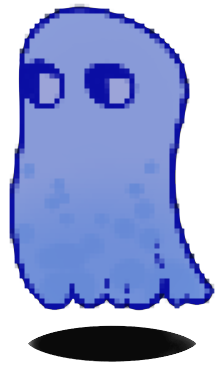
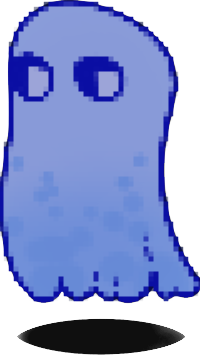
render_room

Changed region(s): [[0.0, 0.0, 1.0, 1.0], [0.36, 0.1545, 0.63, 0.309], [0.12, 0.4326, 0.15, 0.4635]]

diff --git a/src/main.c b/src/main.c
@@ -5,7 +5,7 @@ int WinMain(int argc, char *argv[]) {
     sdl_init();
     SDL_Window* window = sdl_window();
     SDL_Renderer* renderer = sdl_render(window);
-    SDL_Rect hero = { SCREEN_WIDTH / 2, SCREEN_HEIGHT / 2, 160, 275};
+    SDL_Rect hero = { SCREEN_WIDTH / 2, SCREEN_HEIGHT / 2, 100, 200};
 
     SDL_Texture* bgTexture = load_texture("../resource/static/room-floor/first-room-floor.PNG", renderer);
 
@@ -17,8 +17,50 @@ int WinMain(int argc, char *argv[]) {
     int speed = 1;
 
     //first room
-    Board room = board_build(1480, 600, bgTexture); // Создание комнаты
-    Object* first_rom_obj = init_first_room(renderer);
+    char* filenames1[] = {
+            "../resource/static/non_active/clock.PNG",
+            "../resource/static/non_active/cupboard.PNG",
+            "../resource/static/non_active/cupboard_books.PNG",
+            "../resource/static/non_active/fireplace.PNG",
+            "../resource/static/non_active/greenandblue_mushroom.PNG",
+            "../resource/static/non_active/picture.PNG",
+            "../resource/static/non_active/pudge.PNG",
+            "../resource/static/non_active/red_mushroom.PNG",
+            "../resource/static/non_active/tumbler.PNG",
+            "../resource/static/non_active/win.PNG",
+            "../resource/static/non_active/yellow_mushroom.PNG"
+    };
+
+    SDL_Rect positions1[] = {
+            { 270, 110, 140, 140},
+            { 230, 550, 240, 360},
+            { 450, 140, 300, 400},
+            { 1210, 260, 500, 250 },
+            { 270, 260, 105, 305 },
+            { 1290, 55, 360, 200 },
+            { 720, 350, 140, 140},
+            { 1280, 600, 400, 400 },
+            { 550, 840, 170, 170 },
+            { 800, 60, 421, 300},
+            { 270, 840, 170, 170 },
+    };
+
+    bool dummies1[] = {
+            true,
+            false,
+            true,
+            true,
+            true,
+            false,
+            true,
+            true,
+            false,
+            true,
+            true
+    };
+
+    Board room = room_build(1480, 600, bgTexture); // Создание комнаты
+    Object* first_rom_obj = init_room(renderer, filenames1, positions1, dummies1);
 
     int len1 = 11;
 //    while (first_rom_obj[len1].bg != NULL) {
@@ -29,7 +71,7 @@ int WinMain(int argc, char *argv[]) {
 
     bool running = true;
     while (running) {
-        update_hero(&hero, speed, &room, &running); // Обновление позиции героя
+        update_hero(&hero, speed, &room, &running, first_rom_obj, len1);// Обновление позиции героя
 
         render_main(renderer, &hero, &room, first_rom_obj, len1); // Отрисовка кадра
 

diff --git a/src/entities/board_build.c b/src/entities/board_build.c
@@ -1,20 +1,21 @@
 #include "../../resource/header.h"
 
-Board board_build(int roomWidth, int roomHeight, SDL_Texture* bgPath) {
-    int roomX = (SCREEN_WIDTH - roomWidth) / 2;
-    int roomY = (int)((SCREEN_HEIGHT - roomHeight) / 1.17);
+Board board_build(Object obj) {
+    Board border;
 
-    Board room;
-    room.topWall = (SDL_Rect){roomX, roomY - 140, roomWidth, 10};
-    room.bottomWall = (SDL_Rect){roomX, roomY + roomHeight, roomWidth, 10};
-    room.leftWall = (SDL_Rect){roomX, roomY - 140, 10, roomHeight + 140};
-    room.rightWall = (SDL_Rect){roomX + roomWidth, roomY -140 , 10, roomHeight + 140};
-    room.bg = bgPath;
+    // Вычисляем уменьшение размеров на 20%
+    int shrinkWidth = obj.position.w;
+    int shrinkHeight = obj.position.h;
 
-    printf("Top Wall: %d %d %d %d\n", room.topWall.x, room.topWall.y, room.topWall.w, room.topWall.h);
-    printf("Bottom Wall: %d %d %d %d\n", room.bottomWall.x, room.bottomWall.y, room.bottomWall.w, room.bottomWall.h);
-    printf("Left Wall: %d %d %d %d\n", room.leftWall.x, room.leftWall.y, room.leftWall.w, room.leftWall.h);
-    printf("Right Wall: %d %d %d %d\n", room.rightWall.x, room.rightWall.y, room.rightWall.w, room.rightWall.h);
+    // Вычисляем смещение для центрирования уменьшенных границ
+    int offsetX = shrinkWidth / 2;
+    int offsetY = shrinkHeight / 2;
 
-    return room;
+    // Создаем границы с учетом уменьшения и смещения
+    border.topWall = (SDL_Rect){obj.position.x + offsetX, obj.position.y + offsetY, obj.position.w - shrinkWidth, 1};
+    border.bottomWall = (SDL_Rect){obj.position.x + offsetX, obj.position.y + offsetY + obj.position.h - shrinkHeight, obj.position.w - shrinkWidth, 1};
+    border.leftWall = (SDL_Rect){obj.position.x + offsetX, obj.position.y + offsetY, 1, obj.position.h - shrinkHeight};
+    border.rightWall = (SDL_Rect){obj.position.x + offsetX + obj.position.w - shrinkWidth, obj.position.y + offsetY, 1, obj.position.h - shrinkHeight};
+
+    return border;
 }

diff --git a/src/mechanics/update_hero.c b/src/mechanics/update_hero.c
@@ -1,6 +1,6 @@
 #include "../../resource/header.h"
 
-void update_hero(SDL_Rect* hero, int speed, Board* room, bool* running) {
+void update_hero(SDL_Rect* hero, int speed, Board* room, bool* running, Object* objects, int len_objs) {
     SDL_Event event;
     while (SDL_PollEvent(&event)) {
         if (event.type == SDL_QUIT) {
@@ -26,12 +26,28 @@ void update_hero(SDL_Rect* hero, int speed, Board* room, bool* running) {
 
     SDL_Rect newHeroRect = {newX, newY, hero->w, hero->h};
 
-    // Проверка столкновений с каждой стеной
+    // Проверка столкновений с стенами комнаты
     if (!check_collision(&newHeroRect, &room->topWall) &&
         !check_collision(&newHeroRect, &room->bottomWall) &&
         !check_collision(&newHeroRect, &room->leftWall) &&
         !check_collision(&newHeroRect, &room->rightWall)) {
-        hero->x = newX;
-        hero->y = newY;
+        // Проверка столкновений с объектами
+        bool collisionWithObjects = false;
+        for (int i = 0; i < len_objs; i++) {
+            if (check_collision(&newHeroRect, &objects[i].position)) {
+                if(objects[i].dummy) {
+                    collisionWithObjects = false;
+                    continue;
+                }
+                collisionWithObjects = true;
+                break;
+            }
+        }
+
+        // Обновление положения героя, если не было столкновений
+        if (!collisionWithObjects) {
+            hero->x = newX;
+            hero->y = newY;
+        }
     }
 }

diff --git a/resource/header.h b/resource/header.h
@@ -26,6 +26,9 @@ typedef struct board {
 typedef struct object {
     SDL_Texture* bg;
     SDL_Rect position;
+    int height; // высота фото
+    int width;  // ширина фото
+    bool dummy;
 } Object;
 
 //errs
@@ -34,13 +37,14 @@ SDL_Window* sdl_window();
 SDL_Renderer* sdl_render(SDL_Window* window);
 
 //entities
-Board board_build(int roomWidth, int roomHeight, SDL_Texture* bgPath);
-Object* init_first_room(SDL_Renderer* renderer);
+Board room_build(int roomWidth, int roomHeight, SDL_Texture* bgPath);
+Board board_build(Object obj);
+Object* init_room(SDL_Renderer* renderer, char** filenames, SDL_Rect* positions, bool** dummies);
 void render_all_room(SDL_Renderer* renderer, const Board* room, Object* objects, int len_objs);
 void render_obj(SDL_Renderer* renderer, Object obj);
 
 //mechanics
-void update_hero(SDL_Rect* hero, int speed, Board* board, bool* running);
+void update_hero(SDL_Rect* hero, int speed, Board* room, bool* running, Object* objects, int len_objs);
 bool check_collision(const SDL_Rect* a, const SDL_Rect* b);
 
 //render

diff --git a/src/entities/room_build.c b/src/entities/room_build.c
@@ -1,0 +1,20 @@
+#include "../../resource/header.h"
+
+Board room_build(int roomWidth, int roomHeight, SDL_Texture* bgPath) {
+    int roomX = (SCREEN_WIDTH - roomWidth) / 2;
+    int roomY = (int)((SCREEN_HEIGHT - roomHeight) / 1.17);
+
+    Board room;
+    room.topWall = (SDL_Rect){roomX, roomY - 100, roomWidth, 10};
+    room.bottomWall = (SDL_Rect){roomX, roomY + roomHeight, roomWidth, 10};
+    room.leftWall = (SDL_Rect){roomX, roomY - 140, 10, roomHeight + 140};
+    room.rightWall = (SDL_Rect){roomX + roomWidth, roomY -140 , 10, roomHeight + 140};
+    room.bg = bgPath;
+
+    printf("Top Wall: %d %d %d %d\n", room.topWall.x, room.topWall.y, room.topWall.w, room.topWall.h);
+    printf("Bottom Wall: %d %d %d %d\n", room.bottomWall.x, room.bottomWall.y, room.bottomWall.w, room.bottomWall.h);
+    printf("Left Wall: %d %d %d %d\n", room.leftWall.x, room.leftWall.y, room.leftWall.w, room.leftWall.h);
+    printf("Right Wall: %d %d %d %d\n", room.rightWall.x, room.rightWall.y, room.rightWall.w, room.rightWall.h);
+
+    return room;
+}

diff --git a/src/entities/init_room.c b/src/entities/init_room.c
@@ -1,0 +1,27 @@
+#include "../../resource/header.h"
+
+
+Object* init_room(SDL_Renderer* renderer, char** filenames, SDL_Rect* positions, bool** dummies) {
+
+    Object* objects = malloc(sizeof(Object) * 11);
+
+    for (int i = 0; i < 11; i++) {
+        objects[i].bg = malloc(strlen(filenames[i]) + 1);
+        objects[i].bg = load_texture(filenames[i], renderer);
+        objects[i].position = positions[i];
+        int width, height;
+        if (SDL_QueryTexture(objects[i].bg, NULL, NULL, &width, &height) != 0) {
+            SDL_Log("err h w texture %s", SDL_GetError());
+        }
+        objects[i].height = height;
+        objects[i].width = width;
+        objects[i].dummy = dummies[i];
+        if (objects[i].dummy) {
+            objects[i].height = 0;
+            objects[i].width = 0;
+        }
+        printf("w: %d, h: %d\n", width, height);
+    }
+
+    return objects;
+}

diff --git a/src/render/render_hero.c b/src/render/render_hero.c
@@ -1,15 +1,10 @@
 #include "../../resource/header.h"
 
 void render_hero(SDL_Renderer* renderer, SDL_Rect* hero, SDL_Texture* heroTexture) {
-
     if (!heroTexture) {
         printf("Ошибка загрузки текстуры героя: %s\n", SDL_GetError());
         return;
     }
-
-    // Отрисовка героя
     SDL_RenderCopy(renderer, heroTexture, NULL, hero);
-
-    // Отображение отрисованного кадра
     SDL_RenderPresent(renderer);
 }

diff --git a/src/mechanics/check_collision.c b/src/mechanics/check_collision.c
@@ -1,7 +1,6 @@
 #include "../../resource/header.h"
 
-bool check_collision(const SDL_Rect* a, const SDL_Rect* b) {
-    // Проверка пересечения двух прямоугольников
+bool check_collision(const SDL_Rect* a, const SDL_Rect* b) { // Проверка на столкновение не трогать ключевая функция!
     return (a->x < b->x + b->w) &&
            (a->x + a->w > b->x) &&
            (a->y < b->y + b->h) &&

diff --git a/src/render/render_board.c b/src/render/render_board.c
@@ -2,9 +2,6 @@
 
 Board render_board(SDL_Renderer* renderer, const Board* board) {
     SDL_SetRenderDrawBlendMode(renderer, SDL_BLENDMODE_BLEND);
-
-//    render_bg(renderer, room->bg);
-    //SDL_SetRenderDrawColor(renderer, 255, 255, 255, 0); // Красный цвет для стен
     SDL_SetRenderDrawColor(renderer, 255, 255, 255, 222);
 
     SDL_RenderFillRect(renderer, &board->topWall);

diff --git a/src/render/reder_bg.c b/src/render/reder_bg.c
@@ -1,6 +1,5 @@
 #include "../../resource/header.h"
 
-void render_bg(SDL_Renderer* renderer, SDL_Texture* texture) {
-
+void render_bg(SDL_Renderer* renderer, SDL_Texture* texture) { // Рендеринг фона заднего
     SDL_RenderCopy(renderer, texture, NULL, NULL); // Копирование текстуры на весь экран
 }

diff --git a/src/render/render_main.c b/src/render/render_main.c
@@ -17,9 +17,5 @@ void render_main(SDL_Renderer* renderer, SDL_Rect* hero, Board* room, Object* ob
         render_hero(renderer, hero, mainHeroTexture);
     }
 
-
-
-    // Другие элементы рендеринга могут быть добавлены здесь
-
     SDL_RenderPresent(renderer);
 }

diff --git a/src/render/render_all_room.c b/src/render/render_all_room.c
@@ -6,5 +6,7 @@ void render_all_room(SDL_Renderer* renderer, const Board* room, Object* objects,
 
     for (int i = 0; i < len_objs; i++) {
         render_obj(renderer, objects[i]);
+        Board board = board_build(objects[i]);
+        render_board(renderer, &board);
     }
 }
